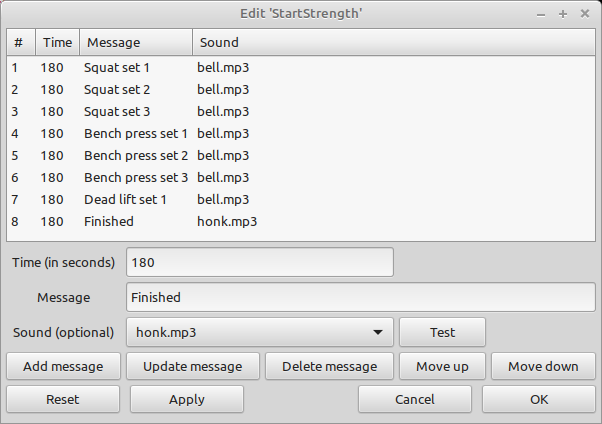
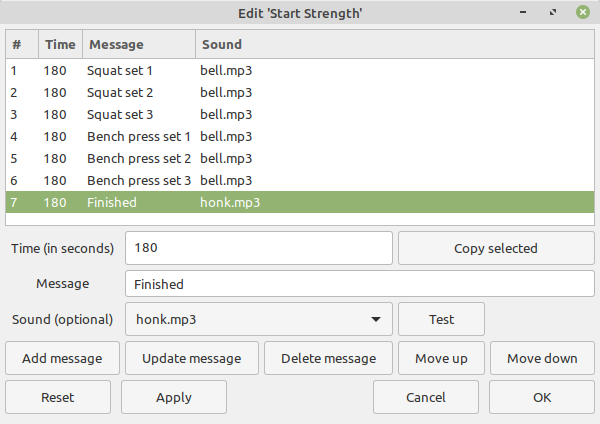
Centre text, add Copy Selected button

diff --git a/gymbob/editwin.py b/gymbob/editwin.py
@@ -195,6 +195,10 @@ class ProgEditWin(Gtk.Window):
         entry.set_hexpand(True)
         entry.set_max_width_chars(4)
 
+        button = Gtk.Button('Copy selected')
+        mini_grid.attach(button, 3, 1, 2, 1)
+        # (signal_connect appears below)
+
         label2 = Gtk.Label('Message')
         mini_grid.attach(label2, 0, 2, 1, 1)
 
@@ -218,17 +222,24 @@ class ProgEditWin(Gtk.Window):
         combo.set_entry_text_column(0)
         combo.set_active(0)
 
-        button = Gtk.Button('Test')
-        mini_grid.attach(button, 3, 3, 1, 1)
+        # (signal_connect from above)
         button.connect(
+            'clicked',
+            self.on_button_copy_clicked,
+            entry, entry2, combo,
+        )
+
+        button2 = Gtk.Button('Test')
+        mini_grid.attach(button2, 3, 3, 1, 1)
+        button2.connect(
             'clicked',
             self.on_button_test_clicked,
             combo,
         )
 
-        button2 = Gtk.Button('Add message')
-        mini_grid.attach(button2, 0, 4, 1, 1)
-        button2.connect(
+        button3 = Gtk.Button('Add message')
+        mini_grid.attach(button3, 0, 4, 1, 1)
+        button3.connect(
             'clicked',
             self.on_button_add_clicked,
             entry,
@@ -236,9 +247,9 @@ class ProgEditWin(Gtk.Window):
             combo,
         )
 
-        button3 = Gtk.Button('Update message')
-        mini_grid.attach(button3, 1, 4, 1, 1)
-        button3.connect(
+        button4 = Gtk.Button('Update message')
+        mini_grid.attach(button4, 1, 4, 1, 1)
+        button4.connect(
             'clicked',
             self.on_button_update_clicked,
             entry,
@@ -246,17 +257,17 @@ class ProgEditWin(Gtk.Window):
             combo,
         )
 
-        button4 = Gtk.Button('Delete message')
-        mini_grid.attach(button4, 2, 4, 1, 1)
-        button4.connect('clicked', self.on_button_delete_clicked)
+        button5 = Gtk.Button('Delete message')
+        mini_grid.attach(button5, 2, 4, 1, 1)
+        button5.connect('clicked', self.on_button_delete_clicked)
 
-        button5 = Gtk.Button('Move up')
-        mini_grid.attach(button5, 3, 4, 1, 1)
-        button5.connect('clicked', self.on_button_move_up_clicked)
+        button6 = Gtk.Button('Move up')
+        mini_grid.attach(button6, 3, 4, 1, 1)
+        button6.connect('clicked', self.on_button_move_up_clicked)
 
-        button6 = Gtk.Button('Move down')
-        mini_grid.attach(button6, 4, 4, 1, 1)
-        button6.connect('clicked', self.on_button_move_down_clicked)
+        button7 = Gtk.Button('Move down')
+        mini_grid.attach(button7, 4, 4, 1, 1)
+        button7.connect('clicked', self.on_button_move_down_clicked)
 
         # If sound is muted, then there's no point in testing sound effects
         if self.app_obj.mute_sound_flag:
@@ -266,11 +277,11 @@ class ProgEditWin(Gtk.Window):
         if self.app_obj.current_prog_started_flag:
             entry.set_sensitive(False)
             entry2.set_sensitive(False)
-            button2.set_sensitive(False)
             button3.set_sensitive(False)
             button4.set_sensitive(False)
             button5.set_sensitive(False)
             button6.set_sensitive(False)
+            button7.set_sensitive(False)
 
 
     def setup_button_strip(self):
@@ -572,6 +583,47 @@ class ProgEditWin(Gtk.Window):
 
         # Destroy the window
         self.destroy()
+
+
+    def on_button_copy_clicked(self, button, entry, entry2, combo):
+
+        """Called from a callback in self.setup_button_strip().
+
+        Copies data from the selected line into the entry/combo boxes, so the user can more
+        conveniently edit them, before clicking 'Update message'.
+
+        Args:
+
+            button (Gtk.Button): The widget clicked
+
+            entry, entry2 (Gtk.Entry): Widgets to update
+
+            combo (Gtk.ComboBox): Another widget to update
+
+        """
+
+        # Get the selected line
+        selection = self.treeview.get_selection()
+        (list_model, list_iter) = selection.get_selected()
+        if list_iter is None:
+
+            # Nothing selected
+            return
+
+        else:
+
+            entry.set_text(str(list_model.get_value(list_iter, 1)))
+            entry2.set_text(str(list_model.get_value(list_iter, 2)))
+
+            sound = list_model.get_value(list_iter, 3)
+            if sound == '' or sound == 'None':
+                combo.set_active(0)
+            else:
+                try:
+                    index = self.app_obj.sound_list.index(sound)
+                    combo.set_active(index + 1)
+                except:
+                    combo.set_active(0)
 
 
     def on_button_delete_clicked(self, button):

diff --git a/gymbob/mainwin.py b/gymbob/mainwin.py
@@ -453,6 +453,7 @@ class MainWin(Gtk.ApplicationWindow):
 
         frame = Gtk.Frame()
         scrolled.add_with_viewport(frame)
+        frame.override_background_color(Gtk.StateType.NORMAL, Gdk.RGBA(0, 0, 0, 1))
 
         style_provider = self.set_textview_css(
             '#css_text_id_' + str(widget_id) \
@@ -470,10 +471,12 @@ class MainWin(Gtk.ApplicationWindow):
         textview = Gtk.TextView()
         frame.add(textview)
         textview.set_wrap_mode(Gtk.WrapMode.WORD)
-        textview.set_editable(False)
-        textview.set_cursor_visible(False)
+        textview.set_justification(Gtk.Justification.CENTER)
+        textview.set_valign(Gtk.Align.CENTER)
         textview.set_hexpand(True)
         textview.set_vexpand(True)
+        textview.set_editable(False)
+        textview.set_cursor_visible(False)
 
         context = textview.get_style_context()
         context.add_provider(style_provider, 600)

diff --git a/setup.py b/setup.py
@@ -51,7 +51,7 @@ for path in glob.glob('sounds/*'):
 # Setup
 setuptools.setup(
     name='gymbob',
-    version='2.0',
+    version='2.004',
     description='Simple script to prompt the user during a workout',
     long_description=long_description,
     long_description_content_type='text/plain',

diff --git a/README.rst b/README.rst
@@ -154,6 +154,7 @@ If that programme is currently running (in other words, if you have clicked the 
 In the edit window:
 
 - You can modify any step of the programme by clicking on it, typing new values for the time, message, and/or sound effect, and clicking the **Update message** button
+- (Instead of typing new values, you can copy across the selected values by clicking the **Copy selected** button)
 - You can delete a step by clicking on it, and clicking the **Delete message** button
 - You can change the order of the steps by clicking on one step, and then by clicking on the **Move up** and **Move down** buttons
 
